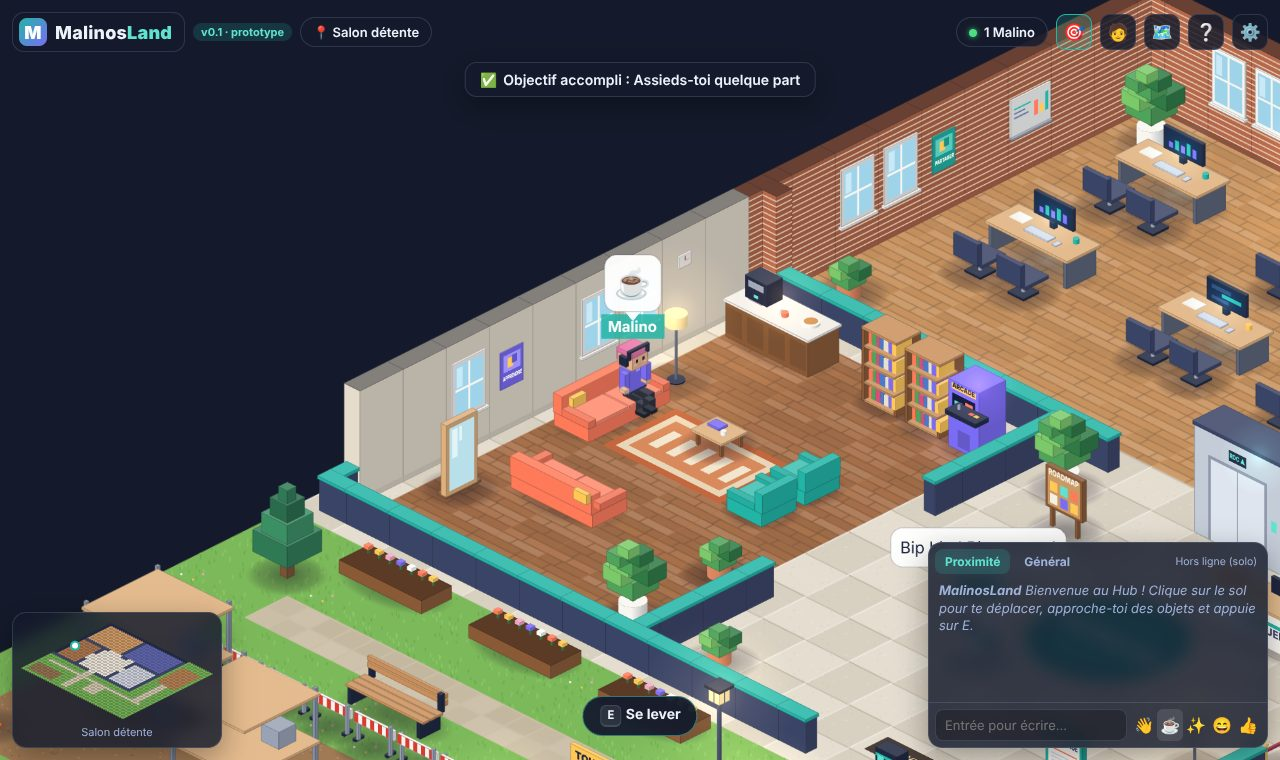
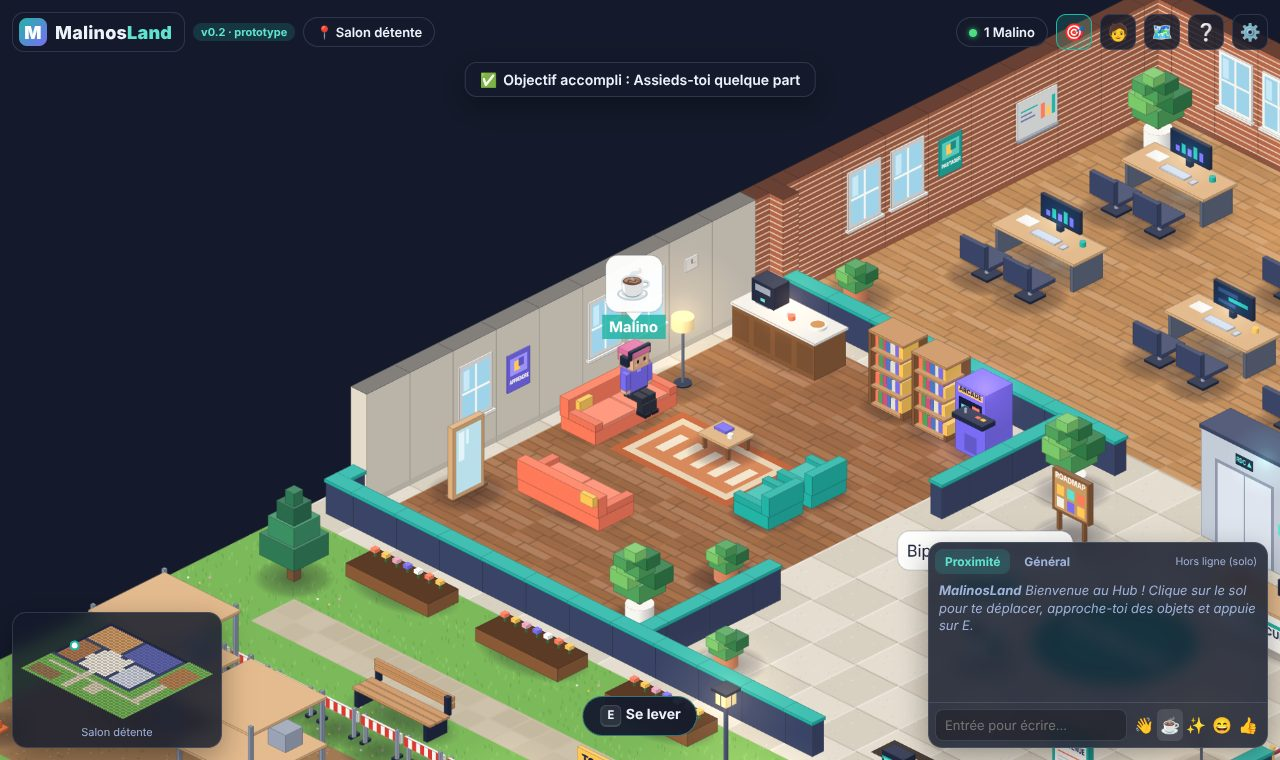
fix: personnages assis contre le dossier, casque vu de dos (#13)
- Points d'assise déplacés contre le dossier (chaises, fauteuils,
  canapés, bancs, transats) : vus de dos, les personnages semblaient
  assis à côté ou devant le siège.
- Casque audio : seul l'écouteur côté caméra est dessiné (l'autre
  apparaissait à travers la tête vue de dos).
- Moteur de dessin : contraintes d'ordre seulement entre pièces qui se
  recouvrent à l'écran (moins de cycles, moins d'erreurs d'affichage).
- Débogage : sit(type, n) pour s'asseoir aussitôt (captures, tests).

Claude-Session: https://claude.ai/code/session_01Qw77oRfavFk1UuUHYMmnwo

diff --git a/src/content/catalog.ts b/src/content/catalog.ts
@@ -7,6 +7,8 @@ import type { CatalogEntry } from '../world/types';
  * Ajouter un objet : 1) une entrée ici, 2) un dessin dans objects.ts,
  * 3) le placer dans une carte. Voir docs/CONTRIBUTING.md.
  */
+// Assises : le point d'assise est placé contre le dossier (hanches au fond du siège), sinon
+// le personnage semble flotter devant le dossier, surtout vu de dos.
 export const CATALOG: Record<string, CatalogEntry> = {
   // --- Mobilier intérieur -------------------------------------------------
   desk_pc: {
@@ -29,21 +31,21 @@ export const CATALOG: Record<string, CatalogEntry> = {
     category: 'furniture',
     footprint: [1, 1],
     blocking: true,
-    seats: [{ x: 0.5, y: 0.5, height: 0.42 }],
+    seats: [{ x: 0.5, y: 0.41, height: 0.42 }],
   },
   conf_chair: {
     name: 'Siège de conférence',
     category: 'furniture',
     footprint: [1, 1],
     blocking: true,
-    seats: [{ x: 0.5, y: 0.5, height: 0.42 }],
+    seats: [{ x: 0.5, y: 0.4, height: 0.42 }],
   },
   armchair: {
     name: 'Fauteuil',
     category: 'furniture',
     footprint: [1, 1],
     blocking: true,
-    seats: [{ x: 0.5, y: 0.55, height: 0.38 }],
+    seats: [{ x: 0.5, y: 0.4, height: 0.38 }],
   },
   sofa: {
     name: 'Canapé',
@@ -51,8 +53,8 @@ export const CATALOG: Record<string, CatalogEntry> = {
     footprint: [2, 1],
     blocking: true,
     seats: [
-      { x: 0.55, y: 0.55, height: 0.38 },
-      { x: 1.45, y: 0.55, height: 0.38 },
+      { x: 0.55, y: 0.42, height: 0.38 },
+      { x: 1.45, y: 0.42, height: 0.38 },
     ],
   },
   coffee_table: {
@@ -269,8 +271,8 @@ export const CATALOG: Record<string, CatalogEntry> = {
     footprint: [2, 1],
     blocking: true,
     seats: [
-      { x: 0.55, y: 0.5, height: 0.4 },
-      { x: 1.45, y: 0.5, height: 0.4 },
+      { x: 0.55, y: 0.37, height: 0.4 },
+      { x: 1.45, y: 0.37, height: 0.4 },
     ],
   },
   lamp_post: {
@@ -303,7 +305,7 @@ export const CATALOG: Record<string, CatalogEntry> = {
     category: 'furniture',
     footprint: [1, 1],
     blocking: true,
-    seats: [{ x: 0.5, y: 0.5, height: 0.3 }],
+    seats: [{ x: 0.5, y: 0.42, height: 0.3 }],
   },
   cone: {
     name: 'Plot de chantier',

diff --git a/src/game/art/characters.ts b/src/game/art/characters.ts
@@ -1,5 +1,5 @@
 import type { Facing } from '../../core/iso';
-import { rotationForFacing } from '../../core/rotation';
+import { facesCamera, rotateFacing, rotationForFacing } from '../../core/rotation';
 import {
   BOTTOM_COLORS,
   HAIR_COLORS,
@@ -121,7 +121,7 @@ function buildAvatar(a: AvatarAppearance, facing: Facing, pose: AvatarPose): Iso
   }
   B(-0.135, -0.125, hz, 0.27, 0.25, 0.28, skin, face);
   drawHair(B, a.hair, hairC, hz);
-  if (a.accessory === 2) drawHeadphones(B, a.hair, hz);
+  if (a.accessory === 2) drawHeadphones(B, a.hair, hz, facing);
   return b;
 }
 
@@ -152,15 +152,20 @@ export const HAIR_BOUNDS: ReadonlyArray<{ halfWidth: number; top: number }> = [
   { halfWidth: 0.135, top: 0.28 }, // aucun
 ];
 
-/** Casque audio : écouteurs et arceau posés à l'extérieur de la coiffure. */
-function drawHeadphones(B: BoxFn, hairStyle: number, hz: number): void {
+/**
+ * Casque audio : écouteurs et arceau posés à l'extérieur de la coiffure.
+ * Seul l'écouteur du côté de la caméra est dessiné : l'autre est caché par la tête, et le
+ * dessiner donnait l'impression de le voir à travers le crâne quand le personnage est de dos.
+ */
+function drawHeadphones(B: BoxFn, hairStyle: number, hz: number, facing: Facing): void {
   const { halfWidth: hw, top } = HAIR_BOUNDS[hairStyle] ?? HAIR_BOUNDS[0]!;
   const cup = 0.045;
   const band = 0.03;
   const bandTop = hz + top;
-  // Écouteurs à hauteur des oreilles, juste à l'extérieur des cheveux.
-  B(-hw - cup, -0.05, hz + 0.07, cup, 0.12, 0.15, P.ink);
-  B(hw, -0.05, hz + 0.07, cup, 0.12, 0.15, P.ink);
+  const rot = rotationForFacing(facing);
+  // Écouteur à hauteur de l'oreille, juste à l'extérieur des cheveux, côté caméra.
+  if (facesCamera(rotateFacing('nx', rot))) B(-hw - cup, -0.05, hz + 0.07, cup, 0.12, 0.15, P.ink);
+  if (facesCamera(rotateFacing('px', rot))) B(hw, -0.05, hz + 0.07, cup, 0.12, 0.15, P.ink);
   // Montants et arceau, légèrement en avant du sommet (devant un chignon).
   B(-hw - band, 0.075, hz + 0.2, band, 0.04, bandTop - (hz + 0.2), P.ink);
   B(hw, 0.075, hz + 0.2, band, 0.04, bandTop - (hz + 0.2), P.ink);

diff --git a/src/game/art/iso3d.ts b/src/game/art/iso3d.ts
@@ -389,12 +389,30 @@ export function inFront(a: { min: Vec3; max: Vec3 }, b: { min: Vec3; max: Vec3 }
   return ca > cb;
 }
 
+/** Rectangle occupé à l'écran par une boîte (projection de ses coins extrêmes). */
+function screenRect(it: Item): [number, number, number, number] {
+  const { min, max } = it;
+  return [
+    (min.x - max.y) * HW,
+    (max.x - min.y) * HW,
+    (min.x + min.y) * HH - max.z * Z_PX,
+    (max.x + max.y) * HH - min.z * Z_PX,
+  ];
+}
+
 function sortItems(items: Item[]): Item[] {
   const n = items.length;
   const after: number[][] = Array.from({ length: n }, () => []);
   const indegree = new Array<number>(n).fill(0);
+  const rects = items.map(screenRect);
+  const e = 1e-3;
   for (let i = 0; i < n; i++) {
     for (let j = i + 1; j < n; j++) {
+      // Deux boîtes qui ne se recouvrent pas à l'écran n'ont pas d'ordre à respecter : ne pas
+      // créer de contrainte inutile évite des cycles (et donc des pièces dessinées par-dessus
+      // ce qui devrait les cacher, comme un écouteur vu à travers la tête).
+      const [a, b] = [rects[i]!, rects[j]!];
+      if (a[1] <= b[0] + e || b[1] <= a[0] + e || a[3] <= b[2] + e || b[3] <= a[2] + e) continue;
       if (inFront(items[i]!, items[j]!)) {
         after[j]!.push(i);
         indegree[i]!++;

diff --git a/src/game/scenes/WorldScene.ts b/src/game/scenes/WorldScene.ts
@@ -744,6 +744,17 @@ export class WorldScene extends Phaser.Scene {
         if (obj) this.useObject(obj);
         return !!obj;
       },
+      /** S'assoit aussitôt sur le n-ième objet d'un type (captures et tests d'affichage). */
+      sit: (type: string, n = 0) => {
+        const obj = this.world.objects.filter((o) => o.type === type)[n];
+        if (!obj) return false;
+        this.player.standUp();
+        this.player.cancel();
+        if (!this.player.sitOn(obj)) return false;
+        const p = project(this.player.pos.x, this.player.pos.y);
+        this.cameras.main.centerOn(p.x, p.y - 30);
+        return this.player.facing;
+      },
       zoom: (z: number) => {
         this.userZoom = Phaser.Math.Clamp(z, 0.4, 2.4);
         this.updateZoom();

diff --git a/docs/CHANGELOG.md b/docs/CHANGELOG.md
@@ -5,6 +5,15 @@ Format inspiré de [Keep a Changelog](https://keepachangelog.com/fr/1.1.0/). Ver
 
 ## [Non publié]
 
+### Corrigé (graphismes)
+
+- Personnages assis : les hanches sont maintenant contre le dossier. Vus de dos, ils semblaient
+  assis à côté ou devant le siège (bancs, fauteuils, canapés, chaises, transats).
+- Casque audio vu de dos : l’écouteur caché derrière la tête n’est plus dessiné (on avait
+  l’impression de le voir à travers le crâne).
+- Moteur de dessin : seules les pièces qui se recouvrent à l’écran sont ordonnées entre elles
+  (moins d’erreurs d’ordre d’affichage).
+
 ### Ajouté (modération)
 
 - Liste des **joueurs connectés** (bouton « N Malinos ») : **masquer** un joueur (avatar, messages,

diff --git a/AGENTS.md b/AGENTS.md
@@ -132,5 +132,6 @@ expliqués dans `docs/GLOSSAIRE.md`.
 ## 9. Outils de débogage
 
 Ajouter `?debug` à l’URL du jeu expose `window.__malinosDebug` : `pos()`, `state()`,
-`walkTo(x, y)`, `teleport(x, y, orientation)`, `zoom(z)`, `use(id)`, `useType(type)`, `seated()`,
+`walkTo(x, y)`, `teleport(x, y, orientation)`, `zoom(z)`, `use(id)`, `useType(type)`,
+`sit(type, n)` (s’asseoir aussitôt sur le n-ième siège d’un type), `seated()`,
 `peers()`, `fps()`. Utilisé par les tests de bout en bout et les captures de documentation.
